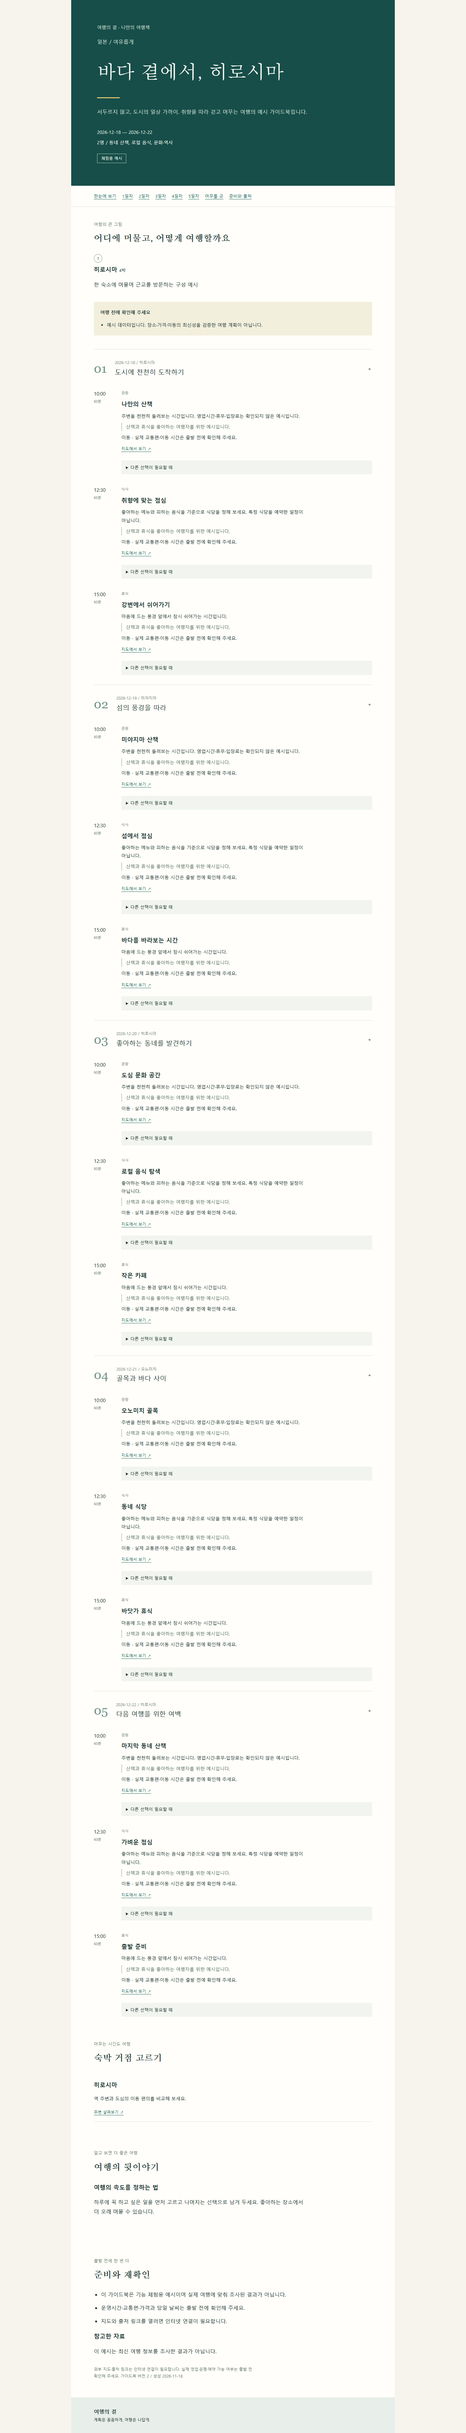
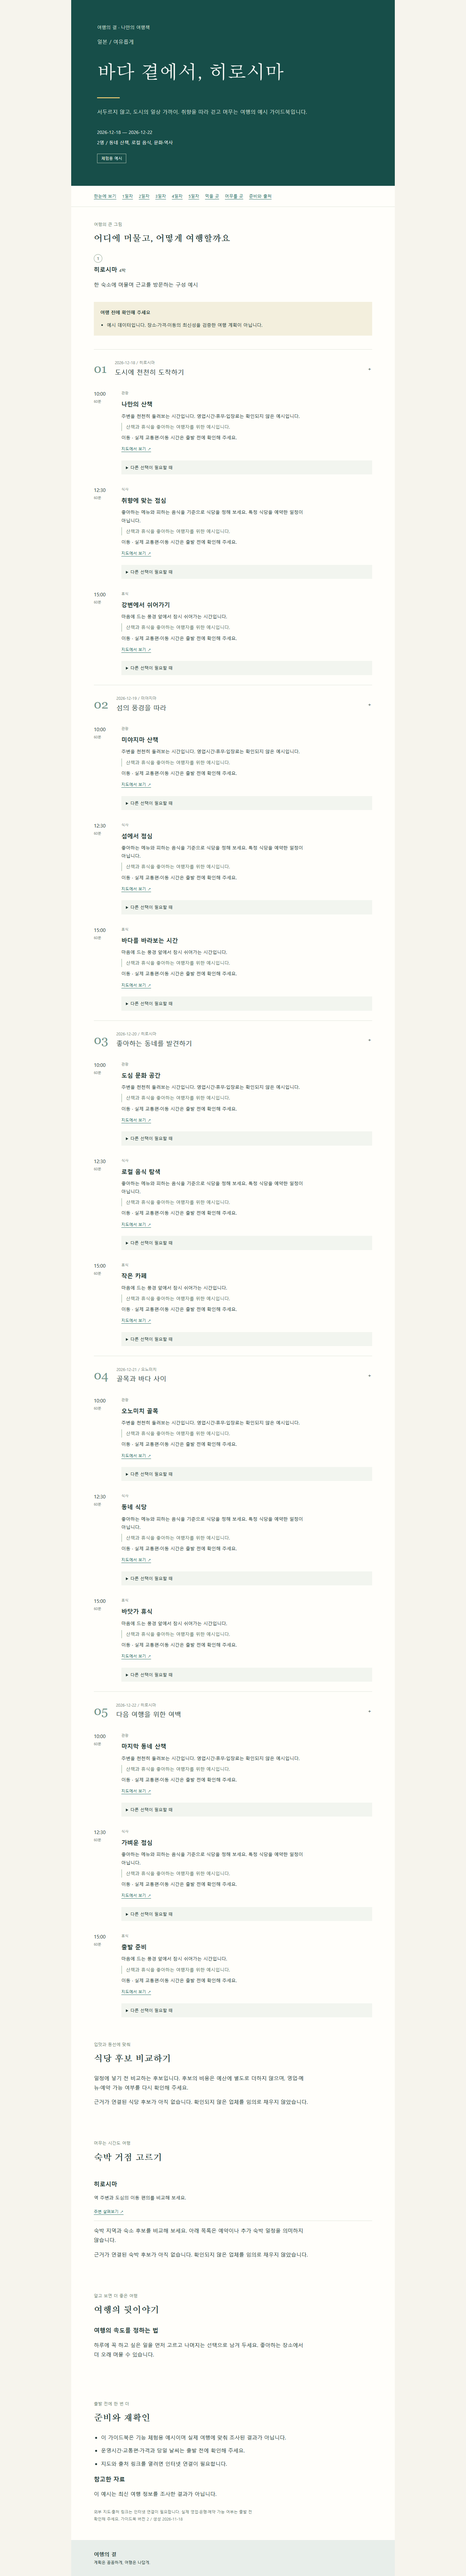
feat: compare sourced dining and lodging candidates in guidebooks

Changed region(s): [[0.1562, 0.0, 0.8438, 0.9977]]

diff --git a/src/components/Guidebook.tsx b/src/components/Guidebook.tsx
@@ -39,6 +39,54 @@ export function Guidebook({
             </a>
           ),
       );
+  const candidates = (kind: "식당" | "숙박", city?: string) => {
+    const items = (trip.recommendations || []).filter(
+      (item) =>
+        (kind === "식당" ? item.kind === "식당" : item.kind !== "식당") &&
+        (!city || item.city === city),
+    );
+    return items.length ? (
+      items.map((item, index) => (
+        <div className="stay-row" key={`${item.city}-${item.name}-${index}`}>
+          <p className="section-kicker">
+            {item.city} · {item.kind} 후보 · 예약 미확정
+          </p>
+          <h3>{item.name}</h3>
+          {options.details && (
+            <>
+              <p>
+                <strong>추천 이유</strong> · {item.reason}
+              </p>
+              <p>
+                <strong>비교할 점</strong> · {item.tradeoff}
+              </p>
+              {item.checks.length > 0 && (
+                <p>
+                  <strong>선택 전 확인</strong> · {item.checks.join(" / ")}
+                </p>
+              )}
+            </>
+          )}
+          <p className="source-links">{sources(item.sourceIds)}</p>
+          {!item.sourceIds.length && (
+            <p>출처 미확인 · 직접 확인한 뒤 선택해 주세요.</p>
+          )}
+          <a
+            href={mapUrl(`${item.city} ${item.name}`)}
+            target="_blank"
+            rel="noreferrer"
+          >
+            지도에서 후보 확인 ↗
+          </a>
+        </div>
+      ))
+    ) : (
+      <p>
+        근거가 연결된 {kind === "식당" ? "식당" : "숙박"} 후보가 아직 없습니다.
+        확인되지 않은 업체를 임의로 채우지 않았습니다.
+      </p>
+    );
+  };
   return (
     <article className="guidebook" lang="ko">
       <header className="book-cover">
@@ -70,6 +118,7 @@ export function Guidebook({
             {i + 1}일차
           </a>
         ))}
+        <a href="#dining">먹을 곳</a>
         {options.lodging && <a href="#stay">머무를 곳</a>}
         {options.budget && <a href="#budget">예산</a>}
         <a href="#prepare">준비와 출처</a>
@@ -198,6 +247,15 @@ export function Guidebook({
           </div>
         </details>
       ))}
+      <section id="dining">
+        <p className="section-kicker">입맛과 동선에 맞춰</p>
+        <h2>식당 후보 비교하기</h2>
+        <p>
+          일정에 넣기 전 비교하는 후보입니다. 후보의 비용은 예산에 별도로 더하지
+          않으며, 영업·메뉴·예약 가능 여부를 다시 확인해 주세요.
+        </p>
+        {candidates("식당")}
+      </section>
       {options.lodging && (
         <section id="stay">
           <p className="section-kicker">머무는 시간도 여행</p>
@@ -215,6 +273,11 @@ export function Guidebook({
               </a>
             </div>
           ))}
+          <p>
+            숙박 지역과 숙소 후보를 비교해 보세요. 아래 목록은 예약이나 추가
+            숙박 일정을 의미하지 않습니다.
+          </p>
+          {candidates("숙박")}
         </section>
       )}
       {options.budget && (

diff --git a/tests/recommendations.test.ts b/tests/recommendations.test.ts
@@ -1,0 +1,77 @@
+import { expect, it } from "vitest";
+import { examples } from "../src/lib/examples";
+import { tripSchema, costSummary } from "../src/lib/trip";
+import { exportGuidebook } from "../src/lib/export";
+import { defaultExportOptions } from "../src/lib/export-options";
+import { createCheckpoint, advancePipeline } from "../src/lib/pipeline";
+
+const candidate = {
+  kind: "식당" as const,
+  city: "히로시마",
+  name: "테스트 식당 <script>bad()</script>",
+  reason: "걷는 거리를 줄이려는 취향",
+  tradeoff: "메뉴 선택 폭을 비교해 주세요",
+  checks: ["피하는 재료 사용 여부"],
+  sourceIds: ["test-source"],
+};
+it("후보가 없는 기존 여행을 읽고 후보 비용을 일정 예산에 더하지 않는다", () => {
+  const original = tripSchema.parse(examples[0]);
+  const trip = tripSchema.parse({ ...original, recommendations: [candidate] });
+  expect(costSummary(trip)).toEqual(costSummary(original));
+  expect(exportGuidebook(original)).toContain(
+    "근거가 연결된 식당 후보가 아직 없습니다",
+  );
+});
+it("후보 출처와 비교 내용을 HTML에 연결하고 숙박 제외 선택을 지킨다", () => {
+  const trip = tripSchema.parse({
+    ...examples[0],
+    sources: [
+      {
+        id: "test-source",
+        title: "테스트 근거",
+        url: "https://example.com/evidence",
+        provider: "웹",
+        checkedAt: "2026-11-18",
+      },
+    ],
+    recommendations: [
+      candidate,
+      { ...candidate, kind: "숙소", name: "PRIVATE_HOTEL_CANDIDATE" },
+    ],
+  });
+  const html = exportGuidebook(trip);
+  expect(html).toContain('href="https://example.com/evidence"');
+  expect(html).toContain("피하는 재료 사용 여부");
+  expect(html).toContain("예약 미확정");
+  expect(html).not.toContain("<script>bad()");
+  expect(html).toContain("&lt;script&gt;");
+  const limited = exportGuidebook(trip, {
+    ...defaultExportOptions,
+    lodging: false,
+    details: false,
+  });
+  expect(limited).not.toContain("PRIVATE_HOTEL_CANDIDATE");
+  expect(limited).not.toContain(candidate.reason);
+  expect(limited).toContain("테스트 식당");
+});
+it("큐레이터가 근거 없는 후보를 반환하면 이전 진행 상태를 보존한다", async () => {
+  const trip = structuredClone(examples[0]);
+  const state = createCheckpoint(trip.brief, {
+    title: trip.title,
+    summary: trip.summary,
+    bases: trip.bases,
+    questions: [],
+  });
+  state.phase = "curate";
+  state.trip = trip;
+  state.research = { text: "", sources: [], method: "test" };
+  for (const sourceIds of [[], ["invented"]]) {
+    await expect(
+      advancePipeline(state, async () => ({
+        result: { ...trip, recommendations: [{ ...candidate, sourceIds }] },
+      })),
+    ).rejects.toThrow("출처");
+    expect(state.trip).toEqual(trip);
+    expect(state.phase).toBe("curate");
+  }
+});

diff --git a/src/lib/agents.ts b/src/lib/agents.ts
@@ -172,7 +172,11 @@ export async function runAgent(
       throw new Error("CONSTRAINT_VIOLATION");
     if (
       hasUnknownSources(
-        [...t.days.flatMap((day) => day.activities), ...t.stories],
+        [
+          ...t.days.flatMap((day) => day.activities),
+          ...t.stories,
+          ...(t.recommendations || []),
+        ],
         t.sources,
       )
     )
@@ -277,15 +281,22 @@ export async function runAgent(
   }
   if (stage === "curate") {
     const content = await json(
-      "가이드북 큐레이터·예산 역할: write Korean stories and practical tips from provided evidence only. Review category costs and note missing accommodation and unknown prices in warnings. Do not invent history, safety numbers or visa rules. Stories without verified historical evidence should be preference-based suggestions, clearly framed as suggestions.",
+      "가이드북 큐레이터·예산 역할: write Korean stories and practical tips from provided evidence only. Review category costs and note missing accommodation and unknown prices in warnings. Do not invent history, safety numbers or visa rules. Stories without verified historical evidence should be preference-based suggestions, clearly framed as suggestions. Produce recommendations grouped by city: dining main/alternative candidates fitting food preferences and route, lodging neighborhoods with tradeoffs, and specific hotels only when supported. Each candidate needs existing supporting sourceIds, a personalized reason, a tradeoff and explicit checks (opening dates, dietary suitability, booking availability). Aim for 2-3 lodging areas per overnight base and useful meal alternatives, but never invent candidates to fill a quota. Missing evidence means omit the candidate and explain the gap in warnings. Do not imply a reservation or live availability. Recommendations are optional choices, not additional scheduled activities or budget entries. Do not put unsourced prices in their text.",
       { trip: prior, research: input.research },
       z.object({
         stories: tripSchema.shape.stories,
+        recommendations: tripSchema.shape.recommendations.unwrap(),
         tips: tripSchema.shape.tips,
         warnings: tripSchema.shape.warnings,
       }),
     );
-    if (hasUnknownSources(content.stories, prior.sources))
+    if (
+      hasUnknownSources(
+        [...content.stories, ...content.recommendations],
+        prior.sources,
+      ) ||
+      content.recommendations.some((item) => !item.sourceIds.length)
+    )
       throw new Error("EVIDENCE_REFERENCE_INVALID");
     return {
       result: {

diff --git a/e2e/guidebook.spec.ts b/e2e/guidebook.spec.ts
@@ -1,6 +1,55 @@
 import { test, expect } from "@playwright/test";
 import fs from "node:fs/promises";
 import { examples } from "../src/lib/examples";
+test("식당·숙박 후보의 비교 정보와 출처를 모바일에서도 읽는다", async ({
+  page,
+}) => {
+  const trip = {
+    ...structuredClone(examples[0]),
+    title: "후보 비교 테스트",
+    sources: [
+      {
+        id: "evidence",
+        title: "테스트 근거",
+        url: "https://example.com/evidence",
+        provider: "웹",
+        checkedAt: "2026-11-18",
+      },
+    ],
+    recommendations: ["식당", "숙박 지역"].map((kind) => ({
+      kind,
+      city: "히로시마",
+      name: `${kind} 테스트 후보`,
+      reason: "많이 걷지 않는 취향을 반영한 제안",
+      tradeoff: "도심 접근성과 주변 혼잡도를 비교해 주세요",
+      checks: ["방문 날짜의 영업 및 이용 가능 여부"],
+      sourceIds: ["evidence"],
+    })),
+  };
+  await page.addInitScript(
+    (value) => localStorage.setItem("travel-books-v1", JSON.stringify([value])),
+    trip,
+  );
+  await page.goto("/");
+  await page.getByRole("button", { name: "내 여행책", exact: true }).click();
+  await page.getByRole("button", { name: /후보 비교 테스트.*버전/ }).click();
+  await page.getByRole("link", { name: "먹을 곳", exact: true }).click();
+  await expect(
+    page.getByRole("heading", { name: "식당 테스트 후보", exact: true }),
+  ).toBeVisible();
+  await expect(
+    page.locator("#dining").getByRole("link", { name: "테스트 근거" }),
+  ).toHaveAttribute("href", "https://example.com/evidence");
+  await page.getByRole("link", { name: "머무를 곳", exact: true }).click();
+  await expect(
+    page.getByRole("heading", { name: "숙박 지역 테스트 후보", exact: true }),
+  ).toBeVisible();
+  expect(
+    await page.evaluate(
+      () => document.documentElement.scrollWidth <= window.innerWidth,
+    ),
+  ).toBe(true);
+});
 test("생성 중단은 완료 날짜를 보존하고 재개 시 남은 날짜만 요청한다", async ({
   page,
 }) => {

diff --git a/src/lib/trip.ts b/src/lib/trip.ts
@@ -251,6 +251,15 @@ export const outlineSchema = z.object({
   questions: z.array(text).max(5),
 });
 export type Outline = z.infer<typeof outlineSchema>;
+export const recommendationSchema = z.object({
+  kind: z.enum(["식당", "숙박 지역", "숙소"]),
+  city: z.string().min(1).max(200),
+  name: z.string().min(1).max(300),
+  reason: text,
+  tradeoff: text,
+  checks: z.array(text).max(8),
+  sourceIds: z.array(z.string().max(200)).max(20),
+});
 export const tripSchema = z.object({
   id: z.string().min(1).max(100),
   version: z.number().int().positive(),
@@ -260,6 +269,7 @@ export const tripSchema = z.object({
   bases: z.array(baseSchema).max(15),
   days: z.array(daySchema).min(1).max(31),
   tips: z.array(text).max(30),
+  recommendations: z.array(recommendationSchema).max(90).optional(),
   stories: z
     .array(
       z.object({ title: text, body: text, sourceIds: z.array(z.string()) }),
@@ -359,6 +369,12 @@ export function validateTrip(t: Trip, previous?: Trip): string[] {
   for (const story of t.stories) {
     if (story.sourceIds.some((id) => !t.sources.some((s) => s.id === id)))
       issues.push(`${story.title}: 연결되지 않은 출처가 있습니다.`);
+  }
+  for (const candidate of t.recommendations || []) {
+    if (candidate.sourceIds.some((id) => !t.sources.some((s) => s.id === id)))
+      issues.push(`${candidate.name}: 연결되지 않은 출처가 있습니다.`);
+    if (!candidate.sourceIds.length)
+      issues.push(`${candidate.name}: 후보의 근거를 확인해 주세요.`);
   }
   for (const d of t.days) {
     issues.push(...dayConstraintIssues(t.brief, d));

diff --git a/src/lib/pipeline.ts b/src/lib/pipeline.ts
@@ -195,7 +195,14 @@ export async function advancePipeline(
       })
       .parse(response);
     const next = parsed.result;
-    if (hasUnknownSources(next.stories, state.research?.sources || []))
+    if (
+      hasUnknownSources(
+        [...next.stories, ...(next.recommendations || [])],
+        state.research?.sources || [],
+      ) ||
+      (state.phase === "curate" &&
+        next.recommendations?.some((item) => !item.sourceIds.length))
+    )
       throw new Error(
         "조사 자료에 없는 출처를 참조한 설명입니다. 다시 시도해 주세요.",
       );

diff --git a/docs/implementation-status.md b/docs/implementation-status.md
@@ -7,8 +7,8 @@
 - 과정 영상은 2분 30초 구성과 실제 수정 사례 세 건을 입력할 틀을 준비했다. 지시 원문·이유·커밋·전후 이미지가 아직 등록되지 않아 증거 검사는 통과하지 않는다. 제출 영상 완성으로 집계하지 않는다.
 - Next.js 프로덕션 빌드 통과(Webpack).
 - TypeScript 검사 통과.
-- 단위·로컬 DB 테스트 39개 통과: 날짜·출처 연결·고정 변경, 위험 링크·HTML 주입, 날짜별 생성 재개, API 오류 마스킹·동시 실행 잠금, 미완성 입력 초안 복원·알 수 없는 필드 제외, 활동 순서 교환·고정 보호·시간 겹침, 내보내기 선택 적용과 원본 보존, 확정 예약・활동 가능 시간 제약·응답 거절과 재개 등.
-- Chrome 데스크톱/모바일 E2E 20개 통과: 예시 수동 편집·보관·HTML 다운로드·오프라인 읽기, 키 비저장·새로고침 삭제, 잘못된 날짜 입력, 입력 초안 자동 보관·복원·삭제, 체류 시간·순서 변경·고정 보호, 확정 예약 추가·충돌 거절·복원·삭제.
+- 단위·로컬 DB 테스트 42개 통과: 날짜·출처 연결·고정 변경, 위험 링크·HTML 주입, 날짜별 생성 재개, API 오류 마스킹·동시 실행 잠금, 미완성 입력 초안 복원·알 수 없는 필드 제외, 활동 순서 교환·고정 보호·시간 겹침, 내보내기 선택 적용과 원본 보존, 확정 예약・활동 가능 시간 제약·응답 거절과 재개, 후보 출처·출력·예산 분리 등.
+- Chrome 데스크톱/모바일 E2E 24개 통과: 예시 수동 편집·보관·HTML 다운로드·오프라인 읽기, 키 비저장·새로고침 삭제, 잘못된 날짜 입력, 입력 초안 자동 보관·복원·삭제, 체류 시간·순서 변경·고정 보호, 확정 예약 추가·충돌 거절·복원·삭제, 중단·재개, 식당·숙박 후보 비교.
 - 확정 일정은 날짜·시작 시간·소요 시간·종류·이름으로 입력한다. AI의 날짜별 생성과 재생성에서 예약 누락·변경·고정 해제·중복·다른 활동과의 겹침을 거절한다. 확정 일정끼리 겹침·기간 밖 날짜·자정 초과도 입력에서 거절한다. 자유 서술 메모의 모든 조건을 구조화한 것은 아니며 실제 예약 유효성은 검증하지 않는다.
 - 첫날 활동 시작 가능 시간과 마지막 날 활동 종료 시간을 현지 시간으로 입력·복원하고 가이드북에 표시한다. 모든 활동 종류에 적용하며 날짜별 생성과 재생성의 위반 응답을 거절한다. 당일 여행의 시간 역전과 가능 시간 밖의 확정 예약을 입력 단계에서 검사한다. 공항 이동·수속 여유는 사용자가 반영하며 항공편 운항을 조회하거나 자유 서술 도착 시간을 자동 해석한 결과가 아니다.
 - 활동 순서 변경은 인접 활동과 시작 시간을 교환한다. 체류 시간·이동 정보는 유지하고 시간 충돌은 자동 검사로 알린다. 수동 편집 시 이전 상태의 AI 수정안을 닫는다.
@@ -22,6 +22,7 @@
 - 조사도 중복을 제거한 숙박 거점별 요청으로 분할한다. 완료한 거점의 자료를 체크포인트에 보존하며 실패한 거점부터 재개한다. 합칠 때 거점별 출처 ID와 문장 연결을 유지하고 길이 제한으로 생략한 자료는 명시한다. 여러 거점의 출처 충돌 방지와 실패 후 재개를 모의 테스트로 확인했다.
 - 골격 승인 화면에서 기본 생성 요청 횟수와 재시도·도구 검색에 따른 추가 사용량 가능성을 안내한다. 실제 과금액을 계산하거나 확정하지 않는다.
 - 가이드북은 단일 HTML로 내보내며 비용 미확인을 0원과 구분한다.
+- 큐레이터는 식당·숙박 지역·숙소 후보를 추천 이유·비교할 점·선택 전 확인 사항·출처와 함께 구조화한다. 새 후보의 출처 누락과 알 수 없는 출처 참조를 거절한다. 가이드북과 HTML에 비교 목록을 표시하고, 숙박 제외 선택을 적용한다. 후보는 확정 예약·일정·예산 합계와 분리하며 자료 부족 시 빈 상태를 표시한다. 기존 후보 필드가 없는 저장본도 읽는다. 후보 출력과 모바일 탐색은 모의 데이터로 확인했으며 실제 업체 추천 품질은 아직 검증하지 않았다.
 - 홈의 '만드는 과정 살펴보기'에서 역할별 예시 설명을 수동 이동·자동 재생·일시 정지할 수 있다. 실제 호출이 아닌 예시임을 표시하고 체험용 가이드북으로 연결한다. 데스크톱·모바일에서 진행·일시 정지·API 요청 없음·예시 열기를 검증했다.
 - 잠정 잔여 예산·초과 금액을 표시하며 미확인·미입력 경비가 빠진 수치임을 알린다. 수동 환산은 원래 금액·통화·1단위당 환율·기준일·출처를 보존하고 통화별 소수 단위를 반영한다. 직접 비용을 수정하면 기존 환산 기록을 제거한다. AI가 새로 만든 환산 기록을 사용자 입력으로 표시하지 않으며, 실제 환율을 조회하지 않는다.
 - 내보내기 전 소개·동행 정보, 활동 설명, 숙박 상세, 예산 포함 여부를 선택하고 동일한 출력 HTML을 미리 본다. 선택은 원본을 바꾸지 않는다. 자유 서술 속 개인정보 자동 탐지·삭제 기능은 아니며, 남는 제목·출처·다른 문장을 확인하도록 안내한다.
@@ -38,7 +39,7 @@
 
 ## 구현 보완 필요
 - 자유 서술 조건의 확인·반영 범위 안내.
-- 별도 숙소·식당 후보의 근거와 미확인 상태를 풍부하게 보여주기.
+- 실제 조사 자료에서 숙소·식당 후보의 취향 적합성·동선·출처 내용 일치를 확인. 내보내기와 비교 화면은 구현했으나 실시간 예약·메뉴 확인은 하지 않는다.
 - 실제 생성 결과에 대한 검토·자동 수정의 품질 확인.
 - 예약 관리 코드를 별도 비공개 필드로 분리하고 생성 본문에 전달하지 않는 구조 보완. 긴 가이드북 인쇄의 페이지 분할과 다른 브라우저 확인.
 - 실제 Supabase에서 계정 저장·버전 보존·삭제와 인증 흐름 검증. 실제 제공사 호출 중 중단과 오류 복구 확인.
